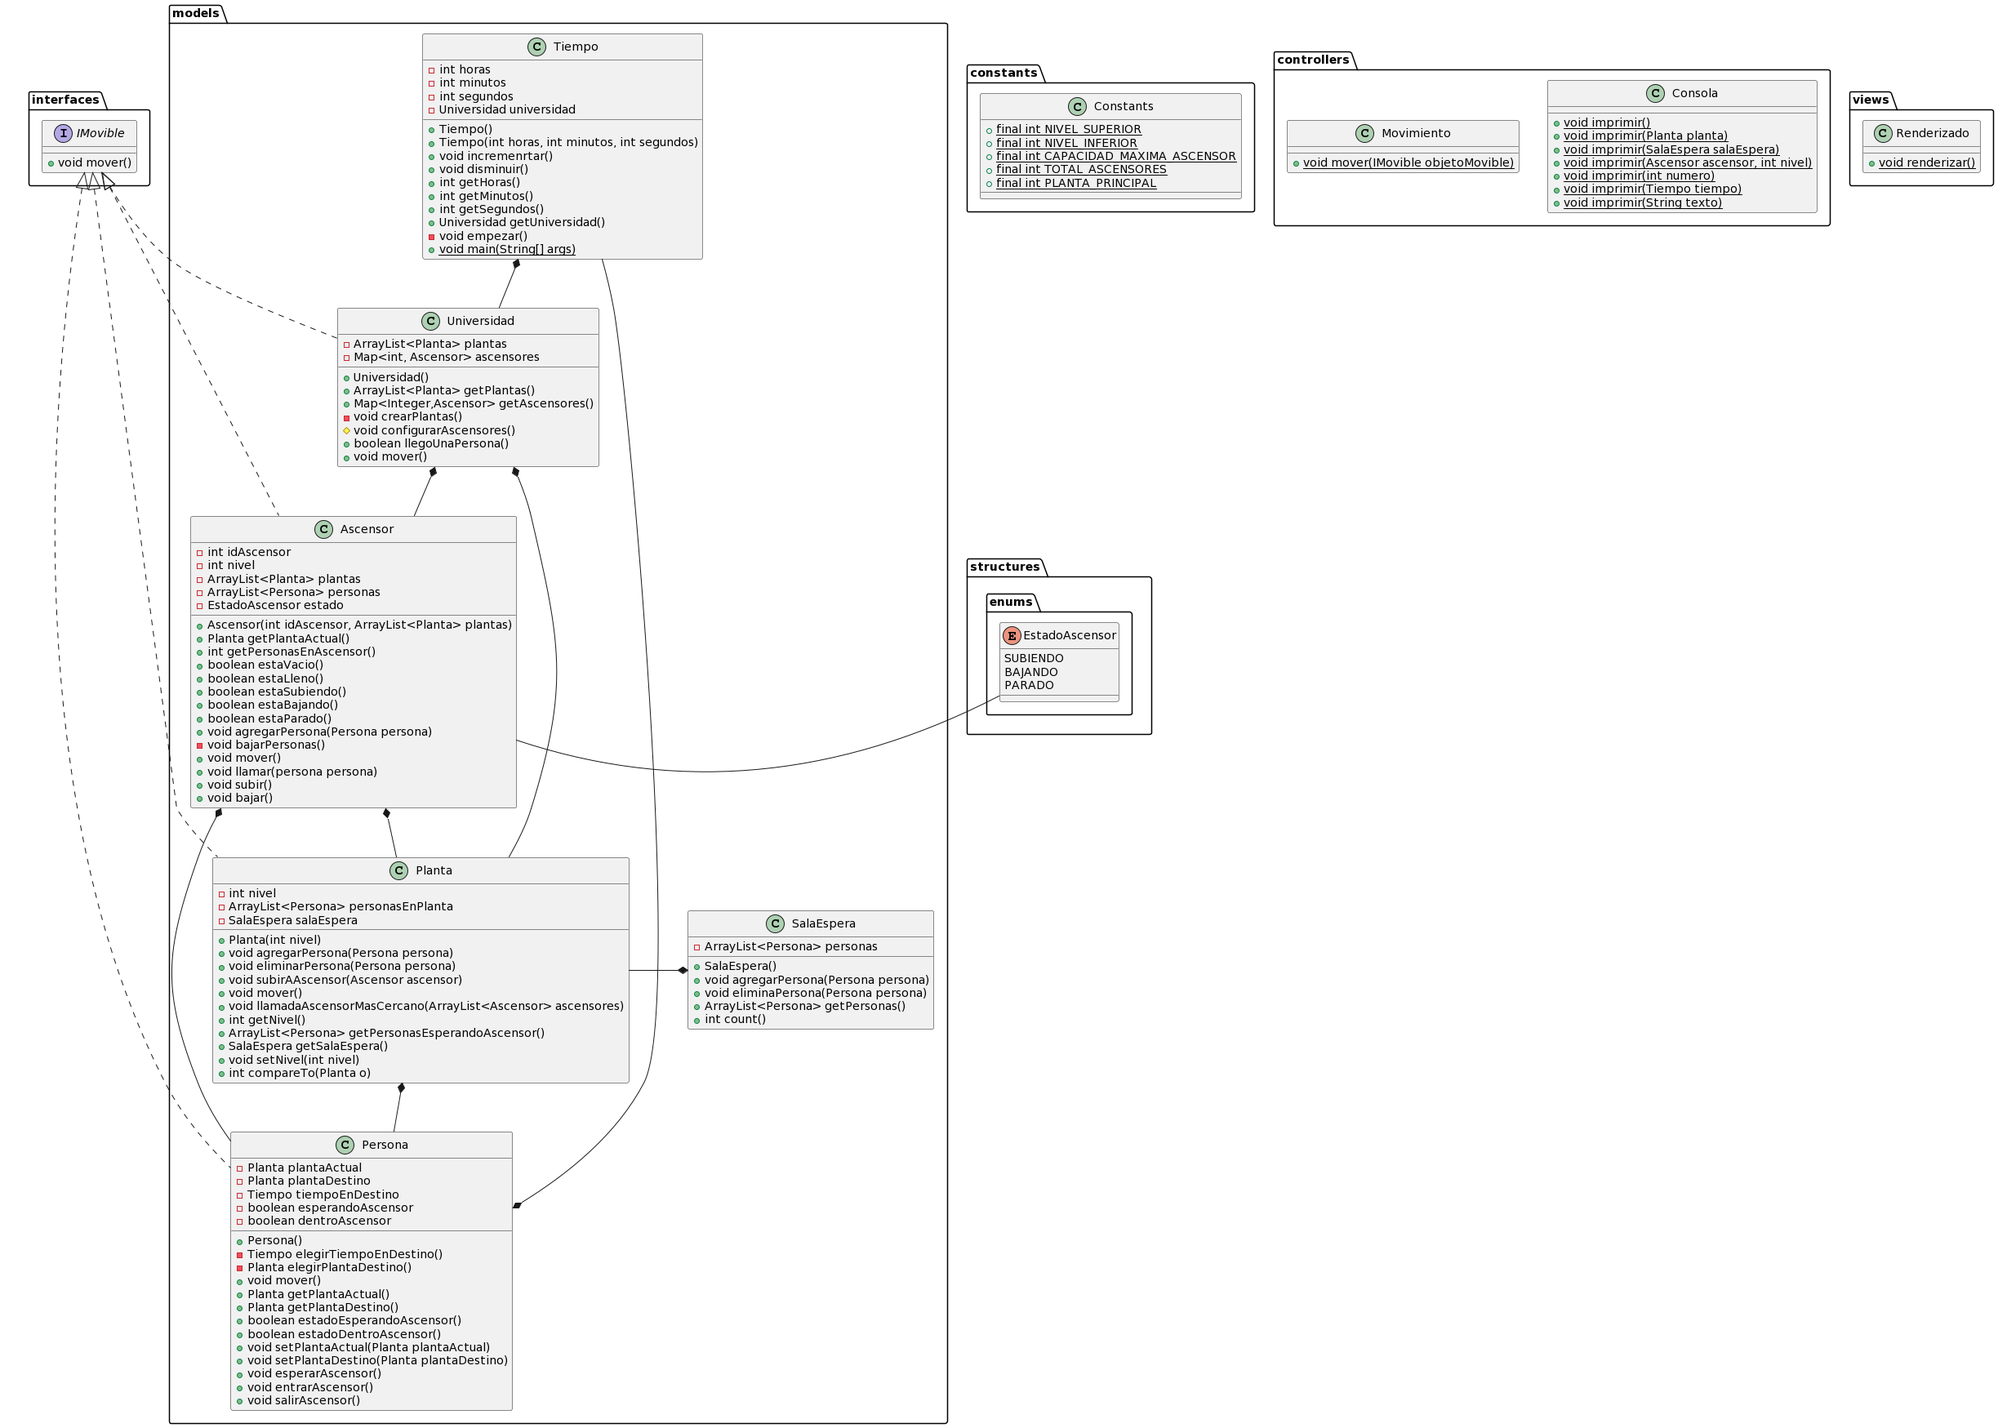
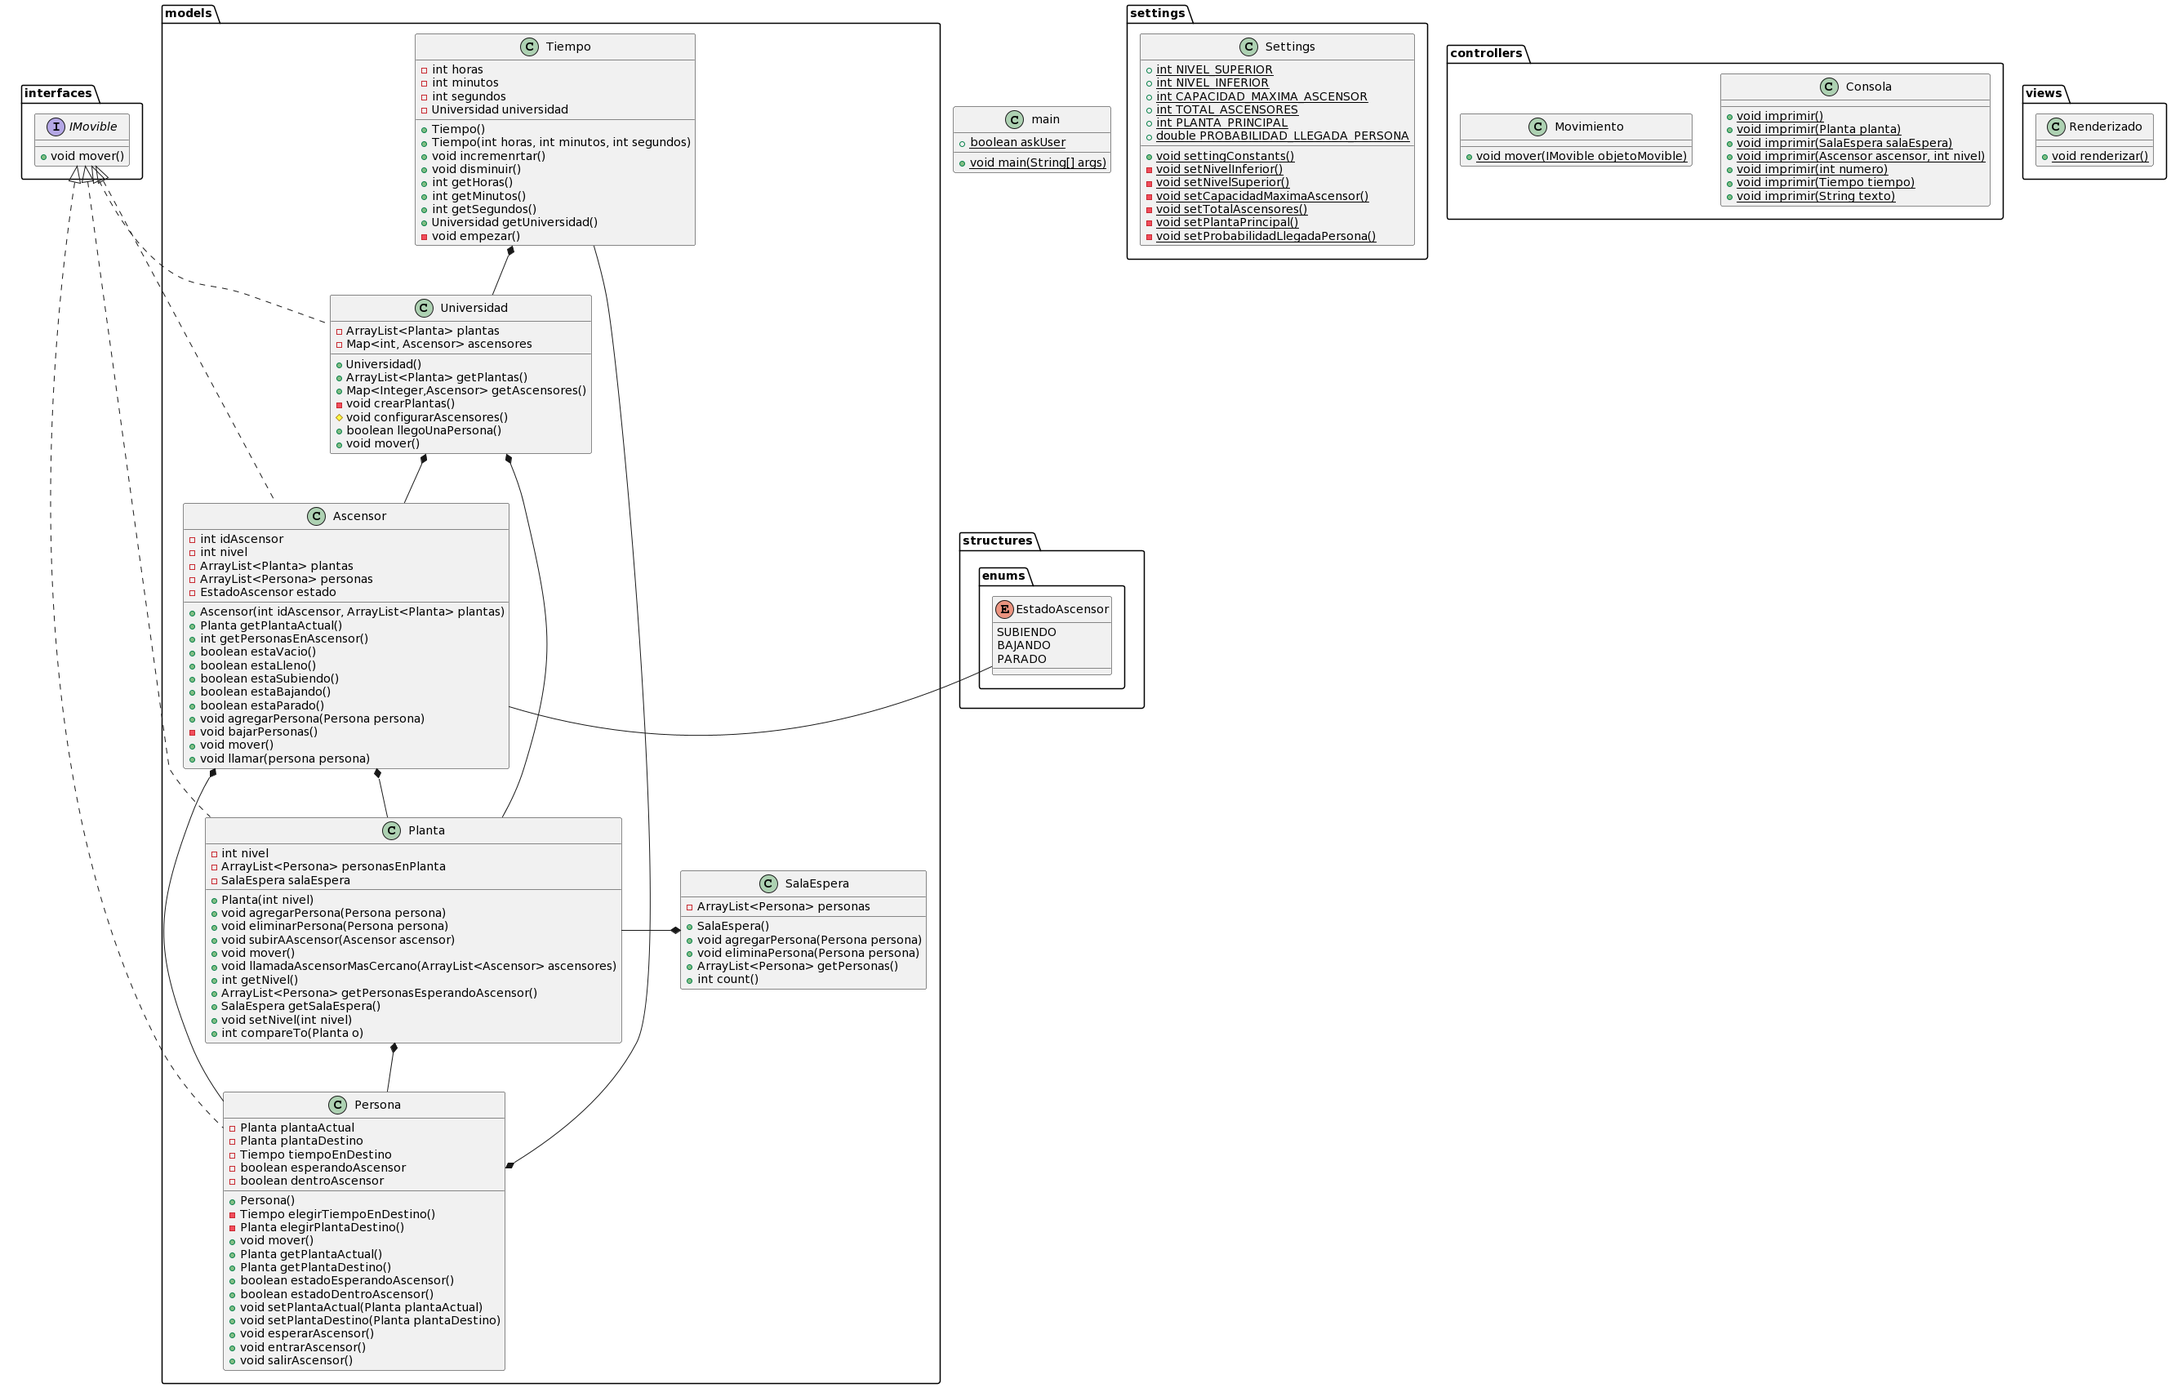
feat: update diagramas and code for final exam send

diff --git a/entregas/Grupo4/v2/Codigo/Ascensores/src/settings/Settings.java b/entregas/Grupo4/v2/Codigo/Ascensores/src/settings/Settings.java
@@ -1,0 +1,138 @@
+package settings;
+
+import java.util.Scanner;
+
+public class Settings {
+    public static int NIVEL_SUPERIOR = 3;
+    public static int NIVEL_INFERIOR = -3;
+    public static int CAPACIDAD_MAXIMA_ASCENSOR = 6;
+    public static int TOTAL_ASCENSORES = 3;
+    public static int PLANTA_PRINCIPAL = 0;
+    public static double PROBABILIDAD_LLEGADA_PERSONA = 0.5;
+
+    public static void settingConstants(){
+        setNivelInferior();
+        setNivelSuperior();
+        setCapacidadMaximaAscensor();
+        setTotalAscensores();
+        setPlantaPrincipal();
+        setProbabilidadLlegadaPersona();
+    }
+
+    private static void setNivelInferior() {
+        try {
+            Scanner lector = new Scanner(System.in);
+            System.out.printf("Ingrese el número del nivel inferior del edificio [0 ~ -10]: /[%d] - ", Settings.NIVEL_INFERIOR);
+            String lectura = lector.nextLine();
+            if(lectura.isEmpty()) return;
+            int numero = Integer.parseInt(lectura);
+            if(numero < -10) throw new Exception("El nivel inferior no puede ser menor a -10");
+            if(numero > NIVEL_SUPERIOR) throw new Exception("El nivel inferior no puede ser mayor al nivel superior");
+            if(numero > 0) throw new Exception("El nivel inferior no puede ser mayor o igual a 0");
+            NIVEL_INFERIOR = numero;
+            return;
+        }  catch (NumberFormatException e) {
+            System.out.println("==El valor introducido no es valido==");
+        } catch (Exception e) {
+            System.out.println("==" + e.getMessage() + "==");
+        }
+        setNivelInferior();
+    }
+
+    private static void setNivelSuperior() {
+        try {
+            Scanner lector = new Scanner(System.in);
+            System.out.printf("Ingrese el número del nivel superior del edificio [1 ~ 10]: /[%d] - ", Settings.NIVEL_SUPERIOR);
+            String lectura = lector.nextLine();
+            if(lectura.isEmpty()) return;
+            int numero = Integer.parseInt(lectura);
+            if(numero > 10) throw new Exception("El nivel superior no puede ser mayor a 10");
+            if(numero < NIVEL_INFERIOR) throw new Exception("El nivel superior no puede ser menor al nivel inferior");
+            if(numero <= 0) throw new Exception("El nivel superior no puede ser menor o igual a 0");
+            NIVEL_SUPERIOR = numero;
+            return;
+        } catch (NumberFormatException e){
+            System.out.println("==El valor introducido no es valido==");
+        } catch (Exception e) {
+            System.out.println("==" + e.getMessage() + "==");
+        }
+        setNivelSuperior();
+    }
+
+    private static void setCapacidadMaximaAscensor() {
+        try {
+            Scanner lector = new Scanner(System.in);
+            System.out.printf("Ingrese la capacidad máxima de los ascensores [1 ~ 10]: /[%d] - ", Settings.CAPACIDAD_MAXIMA_ASCENSOR);
+            String lectura = lector.nextLine();
+            if(lectura.isEmpty()) return;
+            int numero = Integer.parseInt(lectura);
+            if(numero > 10) throw new Exception("La capacidad máxima no puede ser mayor a 10");
+            if(numero <= 0) throw new Exception("La capacidad máxima no puede ser menor o igual a 0");
+            CAPACIDAD_MAXIMA_ASCENSOR = numero;
+            return;
+        }  catch (NumberFormatException e) {
+            System.out.println("==El valor introducido no es valido==");
+        } catch (Exception e) {
+            System.out.println("==" + e.getMessage() + "==");
+        }
+        setCapacidadMaximaAscensor();
+    }
+
+    private static void setTotalAscensores() {
+        try {
+            Scanner lector = new Scanner(System.in);
+            System.out.printf("Ingrese el número de ascensores [1 ~ 6]: /[%d] - ", Settings.TOTAL_ASCENSORES);
+            String lectura = lector.nextLine();
+            if(lectura.isEmpty()) return;
+            int numero = Integer.parseInt(lectura);
+            if(numero > 6) throw new Exception("El número de ascensores no puede ser mayor a 6");
+            if(numero <= 0) throw new Exception("El número de ascensores no puede ser menor o igual a 0");
+            TOTAL_ASCENSORES = numero;
+            return;
+        }  catch (NumberFormatException e) {
+            System.out.println("==El valor introducido no es valido==");
+        } catch (Exception e) {
+            System.out.println("==" + e.getMessage() + "==");
+        }
+        setTotalAscensores();
+    }
+
+    private static void setPlantaPrincipal() {
+        try {
+            Scanner lector = new Scanner(System.in);
+            System.out.printf("Ingrese el número de la planta principal [%d ~ %d]: /[%d] - ", Settings.NIVEL_INFERIOR, Settings.NIVEL_SUPERIOR, Settings.PLANTA_PRINCIPAL);
+            String lectura = lector.nextLine();
+            if(lectura.isEmpty()) return;
+            int numero = Integer.parseInt(lectura);
+            if(numero > NIVEL_SUPERIOR) throw new Exception("El número de la planta principal no puede ser mayor al nivel superior");
+            if(numero < NIVEL_INFERIOR) throw new Exception("El número de la planta principal no puede ser menor al nivel inferior");
+            PLANTA_PRINCIPAL = numero;
+            return;
+        } catch (NumberFormatException e) {
+            System.out.println("==El valor introducido no es valido==");
+        } catch (Exception e) {
+            System.out.println("==" + e.getMessage() + "==");
+        }
+        setPlantaPrincipal();
+    }
+
+    private static void setProbabilidadLlegadaPersona() {
+        try {
+            Scanner lector = new Scanner(System.in);
+            System.out.printf("Ingrese la probabilidad de llegada de personas [1 ~ 100]: /[%f] - ", Settings.PROBABILIDAD_LLEGADA_PERSONA*100);
+            String lectura = lector.nextLine();
+            if(lectura.isEmpty()) return;
+            int numero = Integer.parseInt(lectura);
+            if(numero >= 100) throw new Exception("La probabilidad de llegada de personas no puede ser mayor a 100");
+            if(numero <= 0) throw new Exception("La probabilidad de llegada de personas no puede ser menor o igual a 0");
+            double probabilidad = (double) numero / 100;
+            PROBABILIDAD_LLEGADA_PERSONA = probabilidad;
+            return;
+        } catch (NumberFormatException e) {
+            System.out.println("==El valor introducido no es valido==");
+        } catch (Exception e) {
+            System.out.println("==" + e.getMessage() + "==");
+        }
+        setProbabilidadLlegadaPersona();
+    }
+}

diff --git a/entregas/Grupo4/v2/Codigo/Ascensores/src/models/Ascensor.java b/entregas/Grupo4/v2/Codigo/Ascensores/src/models/Ascensor.java
@@ -1,6 +1,6 @@
 package models;
 
-import constants.Constans;
+import settings.Settings;
 import interfaces.IMovible;
 import structures.enums.EstadoAscensor;
 import java.util.ArrayList;
@@ -16,7 +16,7 @@ public class Ascensor implements IMovible {
     public Ascensor(int idAscensor, ArrayList<Planta> plantas) {
         this.idAscensor = idAscensor;
         this.plantas = plantas;
-        this.nivel = Constans.PLANTA_PRINCIPAL;
+        this.nivel = Settings.PLANTA_PRINCIPAL;
         this.personas = new ArrayList<>();
         this.estado = EstadoAscensor.PARADO;
     }
@@ -34,7 +34,7 @@ public class Ascensor implements IMovible {
         return personas.size() == 0;
     }
     public boolean estaLleno() {
-        return personas.size() == Constans.CAPACIDAD_MAXIMA_ASCENSOR;
+        return personas.size() == Settings.CAPACIDAD_MAXIMA_ASCENSOR;
     }
     public boolean estaSubiendo() {
         return estado == EstadoAscensor.SUBIENDO;
@@ -47,11 +47,9 @@ public class Ascensor implements IMovible {
     }
 
     public void agregarPersona(Persona persona) {
-        if (personas.size() < Constans.CAPACIDAD_MAXIMA_ASCENSOR) {
+        if (personas.size() < Settings.CAPACIDAD_MAXIMA_ASCENSOR) {
             persona.entrarAscensor();
             personas.add(persona);
-        } else {
-            throw new RuntimeException("El ascensor esta lleno");
         }
     }
 
@@ -80,13 +78,15 @@ public class Ascensor implements IMovible {
             if (estaParado()){
                 estado = EstadoAscensor.BAJANDO;
             } else {
-                bajar();
+                nivel--;
+                bajarPersonas();
             }
         } else if (personas.get(0).getPlantaDestino().compareTo(getPlantaActual()) > 0) {
             if (estaParado()){
                 estado = EstadoAscensor.SUBIENDO;
             } else {
-                subir();
+                nivel++;
+                bajarPersonas();
             }
         } else {
             estado = EstadoAscensor.PARADO;
@@ -97,29 +97,19 @@ public class Ascensor implements IMovible {
         if (planta.getNivel() == nivel)
             return;
         if (planta.getNivel() > nivel) {
-            if (estaParado()){
+            if (estaParado()) {
                 estado = EstadoAscensor.SUBIENDO;
             } else {
-                subir();
+                nivel++;
+                bajarPersonas();
             }
         } else {
-            if (estaParado()){
+            if (estaParado()) {
                 estado = EstadoAscensor.BAJANDO;
             } else {
-                bajar();
+                nivel--;
+                bajarPersonas();
             }
         }
-    }
-    public void subir() {
-            if (getPlantaActual().getNivel() + 1 > Constans.NIVEL_SUPERIOR)
-            throw new RuntimeException("No hay mas plantas");
-        nivel++;
-        bajarPersonas();
-    }
-    public void bajar() {
-        if (getPlantaActual().getNivel()-1 < Constans.NIVEL_INFERIOR)
-            throw new RuntimeException("No hay mas plantas");
-        nivel--;
-        bajarPersonas();
     }
 }

diff --git a/entregas/Grupo4/v2/Codigo/Ascensores/src/models/Persona.java b/entregas/Grupo4/v2/Codigo/Ascensores/src/models/Persona.java
@@ -1,6 +1,6 @@
 package models;
 
-import constants.Constans;
+import settings.Settings;
 import interfaces.IMovible;
 
 import java.util.Random;
@@ -13,7 +13,7 @@ public class Persona implements IMovible {
     private boolean dentroAscensor;
 
     public Persona() {
-        this.plantaActual = new Planta(Constans.PLANTA_PRINCIPAL);
+        this.plantaActual = new Planta(Settings.PLANTA_PRINCIPAL);
         this.plantaDestino = elegirPlantaDestino();
         this.tiempoEnDestino = elegirTiempoEnDestino();
         this.esperandoAscensor = true;
@@ -26,15 +26,15 @@ public class Persona implements IMovible {
 
     private Planta elegirPlantaDestino() {
         Random random = new Random();
-        int nivelDestino = random.nextInt(Constans.NIVEL_SUPERIOR - Constans.NIVEL_INFERIOR + 1) + Constans.NIVEL_INFERIOR;
+        int nivelDestino = random.nextInt(Settings.NIVEL_SUPERIOR - Settings.NIVEL_INFERIOR + 1) + Settings.NIVEL_INFERIOR;
         if (nivelDestino == plantaActual.getNivel()) {
             return elegirPlantaDestino();
         } else {
             Planta current = plantaActual;
-            while (nivelDestino > current.getNivel() && current.getNivel() + 1 <= Constans.NIVEL_SUPERIOR ) {
+            while (nivelDestino > current.getNivel() && current.getNivel() + 1 <= Settings.NIVEL_SUPERIOR ) {
                 current.setNivel(current.getNivel() + 1);
             }
-            while (nivelDestino < current.getNivel() && current.getNivel() - 1 >= Constans.NIVEL_INFERIOR) {
+            while (nivelDestino < current.getNivel() && current.getNivel() - 1 >= Settings.NIVEL_INFERIOR) {
                 current.setNivel(current.getNivel() - 1);
             }
             return current;
@@ -44,7 +44,7 @@ public class Persona implements IMovible {
     public void mover() {
         if (tiempoEnDestino.getSegundos() == 0 && tiempoEnDestino.getMinutos() == 0 && tiempoEnDestino.getHoras() == 0) {
             esperarAscensor();
-            setPlantaDestino(new Planta(Constans.PLANTA_PRINCIPAL));
+            setPlantaDestino(new Planta(Settings.PLANTA_PRINCIPAL));
         } else if (!estaDentroAscensor() && !estaEsperandoAscensor()) {
             tiempoEnDestino.disminuir();
         }

diff --git a/entregas/Grupo4/v2/Codigo/Ascensores/src/models/Universidad.java b/entregas/Grupo4/v2/Codigo/Ascensores/src/models/Universidad.java
@@ -1,6 +1,6 @@
 package models;
 
-import constants.Constans;
+import settings.Settings;
 import controllers.Movimiento;
 import interfaces.IMovible;
 
@@ -22,19 +22,19 @@ public class Universidad implements IMovible {
     }
 
     private void crearPlantas() {
-        for (int i = Constans.NIVEL_SUPERIOR; i >= Constans.NIVEL_INFERIOR; i--) {
+        for (int i = Settings.NIVEL_SUPERIOR; i >= Settings.NIVEL_INFERIOR; i--) {
             Planta nuevaPlanta = new Planta(i);
             configurarAscensores(plantas);
             plantas.add(nuevaPlanta);
         }
     }
     void configurarAscensores(ArrayList<Planta> plantas) {
-        for (int i = 0; i < Constans.TOTAL_ASCENSORES; i++) {
+        for (int i = 0; i < Settings.TOTAL_ASCENSORES; i++) {
             ascensores.put(i, new Ascensor(i,plantas));
         }
     }
     private boolean llegoUnaPersona() {
-        if (Math.random() < .5) {
+        if (Math.random() < Settings.PROBABILIDAD_LLEGADA_PERSONA) {
             return true;
         } else {
             return false;
@@ -46,7 +46,7 @@ public class Universidad implements IMovible {
             Movimiento.mover(ascensor);
         }
         for (Planta planta : plantas) {
-            if (planta.getNivel() == Constans.PLANTA_PRINCIPAL) {
+            if (planta.getNivel() == Settings.PLANTA_PRINCIPAL) {
                 if (llegoUnaPersona())
                     planta.agregarPersona(new Persona());
             }

diff --git a/entregas/Grupo4/v2/Codigo/Ascensores/src/Main.java b/entregas/Grupo4/v2/Codigo/Ascensores/src/Main.java
@@ -1,0 +1,22 @@
+import models.Tiempo;
+import settings.Settings;
+
+import java.util.Scanner;
+
+public class Main {
+
+    public static void main(String[] args) {
+        if (askUser()) Settings.settingConstants();
+        new Tiempo().empezar();
+    }
+
+    private static boolean askUser(){
+        String respuesta = "";
+        Scanner lector = new Scanner(System.in);
+        while (!respuesta.toLowerCase().equals("s") && !respuesta.toLowerCase().equals("n")) {
+            System.out.println("¿Desea cambiar las constantes? (s/n)");
+            respuesta = lector.nextLine();
+        }
+        return respuesta.toLowerCase().equals("s");
+    }
+}

diff --git a/entregas/Grupo4/v2/Codigo/Ascensores/src/models/Tiempo.java b/entregas/Grupo4/v2/Codigo/Ascensores/src/models/Tiempo.java
@@ -62,7 +62,7 @@ public class Tiempo {
         return universidad;
     }
 
-    private void empezar(){
+    public void empezar(){
         universidad = new Universidad();
         Scanner scanner = new Scanner(System.in);
         String entrada = "";
@@ -71,11 +71,7 @@ public class Tiempo {
             Renderizado.renderizar(this);
             incrementar();
             entrada = scanner.nextLine();
-        } while (entrada.toLowerCase().compareTo("s") != 0);
-    }
-
-    public static void main(String[] args) {
-        new Tiempo().empezar();
+        } while (entrada.toLowerCase().compareTo("exit") != 0);
     }
 
 }

diff --git a/entregas/Grupo4/v2/Codigo/Ascensores/src/models/Planta.java b/entregas/Grupo4/v2/Codigo/Ascensores/src/models/Planta.java
@@ -1,6 +1,6 @@
 package models;
 
-import constants.Constans;
+import settings.Settings;
 import interfaces.IMovible;
 
 import java.util.ArrayList;
@@ -16,7 +16,7 @@ public class Planta implements Comparable<Planta>, IMovible {
     }
     public void agregarPersona(Persona persona) {
         personas.add(persona);
-        if (persona.getPlantaDestino().getNivel() != Constans.PLANTA_PRINCIPAL)
+        if (persona.getPlantaDestino().getNivel() != Settings.PLANTA_PRINCIPAL)
             salaEspera.agregarPersona(persona);
     }
     public void eliminarPersona(Persona persona) {

diff --git a/entregas/Grupo4/v2/Codigo/Ascensores/src/controllers/Consola.java b/entregas/Grupo4/v2/Codigo/Ascensores/src/controllers/Consola.java
@@ -1,12 +1,12 @@
 package controllers;
 
-import constants.Constans;
+import settings.Settings;
 import models.*;
 
 public class Consola {
     public static void imprimir(){
         String linea = "----------- Personas esperando  ";
-        for (int i = 0; i < Constans.TOTAL_ASCENSORES; i++) {
+        for (int i = 0; i < Settings.TOTAL_ASCENSORES; i++) {
             linea += "-------- ";
         }
         linea += "  Personas en la planta";
